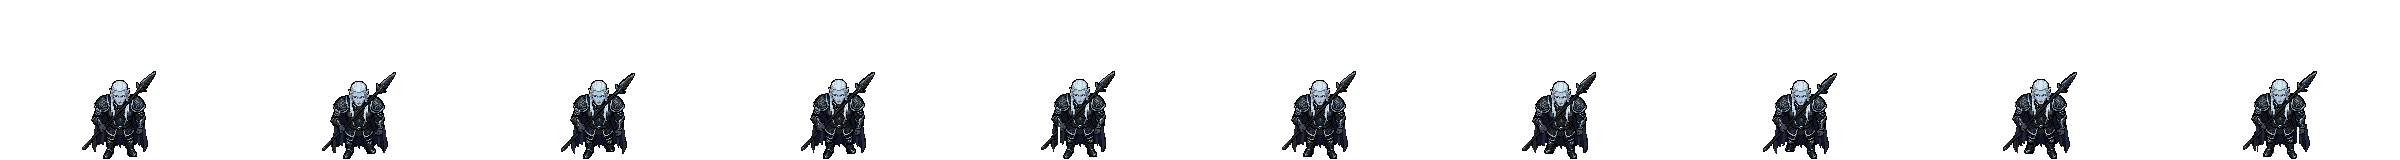
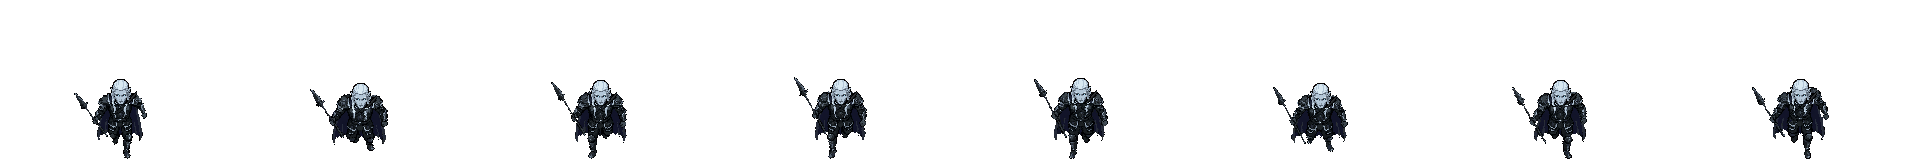
Art: Elvis's real runs in all three views, from Higgsfield (Task A3)
Danyal: "make it so they run and not just take 1 step of a pixel each". run_F, run_S
and run_B are now real runs: full strides with bent knees and travelling feet, the
free arm swinging, the spear rocking in his fist, the cape and hair streaming. 8
frames at 12 fps in every view (the side view's planted foot moves about 12 px a
frame, 145 px/s, against the ground's 160).

Guides: HK Run Full (Jog Forward's full stride, the lean cut to 15 degrees),
art/guides/E25-E27 and ref_elvis_FSB.png. Higgsfield nano_banana_2_1, two of each
request, the better one kept. Clean-up: art/elvis/make_runs.sh. The idle's own
head (and from behind its whole hair) is pasted onto every frame by the new
art/tools/headlock.py, so the face, eyes and hair never change; the frame keeps
the head on one column; F and B's passing squat is lifted to a 4 px bob.
sprites.py gains --widen, --frame-scale and --lowest; stride.py can be imported.

diff --git a/art/tools/headlock.py b/art/tools/headlock.py
@@ -1,0 +1,147 @@
+# One head for every frame: the idle's head (and hair) pasted onto each frame of a Gemini sheet, lined up where that
+# frame's own head is, so the face, the eyes and the hair never get repainted from frame to frame (Gemini repaints every
+# frame; only the limbs, the weapon and the cape should move). The frame's own head pixels round the pasted one go:
+# bright ones (hair, skin) and small dark scraps (its outline) inside the zone are deleted at the silhouette's edge and
+# filled from the body next to them inside it. What lies outside the zone (the side run's hair streaming back) is kept.
+# Usage: uv run --with pillow --with numpy --with scipy python art/tools/headlock.py <sheet> --src art/elvis/idle_S.png
+#            --box X0,Y0,X1,Y1 --out <sheet> [--src-frame 0] [--cell 240,160] [--luma 100] [--front X] [--search 16]
+#   --box: the head in the source frame (cell px, both ends in). --luma L: only source pixels at least that bright, plus
+#   their dark 1 px outline (hair down a back, without the armour round it). --front X: the zone only reaches back to
+#   source column X (side view: the hair behind the skull is the frame's own). --fringe "#221616": first remove that
+#   clean-up ring round the outlines (stride.py's defringe). --steady: shift each frame sideways so the head keeps one
+#   column (the body comes with it; the bob stays). --mend X0,Y0,X1,Y1,W: a spear crossing the source's hair along that
+#   line (W px wide): its dark pixels there take the hair colour above them first (the run carries the spear upright).
+#   --bob-max N: a frame whose head sits more than N px below the median head is lifted to N (its feet leave the floor:
+#   Gemini draws a run's passing pose as a deep squat, 12 px at 80, which reads as a hop down, not a stride).
+#   --floor ROW: every frame not lifted gets its lowest pixel back on that row (the fringe clean-up can take the boot's
+#   bottom row away).
+#   --pad N: how far round the pasted head the frame's own head pixels are cleared (3). Self-check: headlock.py --selftest
+import argparse, os, sys
+import numpy as np
+from PIL import Image
+from scipy import ndimage
+sys.path.insert(0, os.path.dirname(os.path.abspath(__file__)))
+from stride import defringe
+
+FOUR = [[0, 1, 0], [1, 1, 1], [0, 1, 0]]
+
+
+def luma(a):
+    return a[..., :3].astype(float) @ [0.3, 0.59, 0.11]
+
+
+def stamp_of(src, box, lo=None, mend=None):
+    x0, y0, x1, y1 = box
+    s = np.zeros_like(src); s[y0:y1 + 1, x0:x1 + 1] = src[y0:y1 + 1, x0:x1 + 1]
+    if mend:                                    # the spear across the hair -> the strand colour above it
+        mx0, my0, mx1, my1, mw = mend; L = luma(s); h, w = L.shape; yy, xx = np.mgrid[:h, :w]
+        d = np.array([mx1 - mx0, my1 - my0], float); n = d / np.hypot(*d)
+        line = np.abs((xx - mx0) * n[1] - (yy - my0) * n[0]) <= mw / 2
+        for y, x in sorted(zip(*np.nonzero(line & (s[..., 3] > 0) & (L < 100)))):
+            for up in range(1, 8):
+                if y - up >= 0 and luma(s[y - up, x][None])[0] >= 100:
+                    s[y, x] = s[y - up, x]; break
+    on = s[..., 3] > 0
+    if lo is not None:                          # bright pixels and the dark ring round them
+        keep = on & (luma(s) >= lo)
+        keep |= ndimage.binary_dilation(keep, FOUR) & on & (luma(s) < 60)
+        s[~keep] = 0
+    return s
+
+
+def shift(a, dx, dy):
+    out = np.zeros_like(a); h, w = a.shape[:2]
+    ys, xs = slice(max(0, dy), min(h, h + dy)), slice(max(0, dx), min(w, w + dx))
+    yd, xd = slice(max(0, -dy), min(h, h - dy)), slice(max(0, -dx), min(w, w - dx))
+    out[ys, xs] = a[yd, xd]
+    return out
+
+
+def align(f, st, search):
+    m = st[..., 3] > 0; ys, xs = np.nonzero(m); Ls = luma(st)[m]; w = np.where(Ls > 100, 2.0, 1.0)
+    Lf = luma(f); on = f[..., 3] > 0; h, W = on.shape; best = None
+    for dy in range(-search, search + 1):
+        for dx in range(-search, search + 1):
+            y, x = ys + dy, xs + dx
+            ok = (y >= 0) & (y < h) & (x >= 0) & (x < W)
+            yc, xc = np.clip(y, 0, h - 1), np.clip(x, 0, W - 1)
+            d = np.where(ok & on[yc, xc], np.abs(Lf[yc, xc] - Ls), 120.0)
+            c = float((d * w).sum())
+            if best is None or c < best[0]:
+                best = (c, dx, dy)
+    return best[1], best[2]
+
+
+def lock(f, st, dx, dy, front=None, pad=3):
+    st = shift(st, dx, dy); sm = st[..., 3] > 0; on = f[..., 3] > 0
+    zone = ndimage.binary_dilation(sm, np.ones((3, 3)), iterations=pad) & ~sm     # just round the pasted head: trims further off stay
+    if front is not None:
+        zone[:, :max(0, front + dx)] = False
+    gone = zone & on & (luma(f) >= 95)          # its own hair and skin
+    dark = zone & on & ~gone
+    lab, n = ndimage.label(dark, FOUR)
+    if n:
+        size = ndimage.sum(dark, lab, range(1, n + 1))
+        gone |= np.isin(lab, 1 + np.nonzero(size < 20)[0])     # scraps of its own outline (a fist or the spear is bigger)
+    out = f.copy()
+    edge = gone & ndimage.binary_dilation(~on, FOUR)
+    out[edge] = 0
+    hole = gone & ~edge
+    keep = (out[..., 3] > 0) & ~hole
+    if hole.any() and keep.any():
+        _, (iy, ix) = ndimage.distance_transform_edt(~keep, return_indices=True)
+        out[hole] = out[iy[hole], ix[hole]]     # inside the body: the colour next to it
+    out[sm] = st[sm]
+    return out
+
+
+def main():
+    p = argparse.ArgumentParser()
+    p.add_argument('sheet'); p.add_argument('--src', required=True); p.add_argument('--src-frame', type=int, default=0)
+    p.add_argument('--box', required=True); p.add_argument('--out', required=True); p.add_argument('--cell', default='240,160')
+    p.add_argument('--luma', type=float); p.add_argument('--front', type=int); p.add_argument('--search', type=int, default=16)
+    p.add_argument('--fringe'); p.add_argument('--steady', action='store_true'); p.add_argument('--mend')
+    p.add_argument('--pad', type=int, default=3); p.add_argument('--bob-max', type=int)
+    p.add_argument('--floor', type=int)
+    A = p.parse_args()
+    cw, ch = (int(v) for v in A.cell.split(',')); box = [int(v) for v in A.box.split(',')]
+    src = np.asarray(Image.open(A.src).convert('RGBA'))[:ch, A.src_frame * cw:(A.src_frame + 1) * cw]
+    st = stamp_of(src, box, A.luma, [float(v) for v in A.mend.split(',')] if A.mend else None)
+    a = np.asarray(Image.open(A.sheet).convert('RGBA')).copy(); n = a.shape[1] // cw; offs = []
+    for k in range(n):
+        f = a[:, k * cw:(k + 1) * cw]
+        if A.fringe:
+            f = defringe(f, A.fringe)
+        dx, dy = align(f, st, A.search); offs.append((dx, dy))
+        a[:, k * cw:(k + 1) * cw] = lock(f, st, dx, dy, A.front, A.pad)
+    if A.floor is not None:
+        for k in range(n):
+            f = a[:, k * cw:(k + 1) * cw]; low = int(np.nonzero((f[..., 3] > 0).any(1))[0].max())
+            a[:, k * cw:(k + 1) * cw] = shift(f, 0, A.floor - low)
+    if A.bob_max is not None:                   # a squat lifted off the floor: the head bobs at most N px under the median
+        mid = int(round(float(np.median([o[1] for o in offs]))))
+        for k, (_, dy) in enumerate(offs):
+            if dy > mid + A.bob_max:
+                a[:, k * cw:(k + 1) * cw] = shift(a[:, k * cw:(k + 1) * cw], 0, mid + A.bob_max - dy)
+                print('frame', k, 'lifted', dy - mid - A.bob_max, 'px')
+    if A.steady:                                # one head column: each frame moved sideways by its head's offset
+        mid = int(round(float(np.median([o[0] for o in offs]))))
+        for k, (dx, _) in enumerate(offs):
+            f = a[:, k * cw:(k + 1) * cw]
+            a[:, k * cw:(k + 1) * cw] = shift(f, mid - dx, 0)
+    Image.fromarray(a).save(A.out)
+    print('head offsets (dx, dy) per frame:', offs)
+
+
+def selftest():
+    src = np.zeros((40, 40, 4), np.uint8); src[5:15, 10:20] = (220, 230, 240, 255); src[4, 10:20] = (5, 5, 5, 255)
+    f = np.zeros_like(src); f[8:18, 13:23] = (200, 210, 220, 255); f[18:35, 10:26] = (40, 40, 50, 255)
+    st = stamp_of(src, [10, 4, 19, 14])
+    dx, dy = align(f, st, 6); assert (dx, dy) == (3, 3), (dx, dy)
+    out = lock(f, st, dx, dy)
+    assert (out[8:18, 13:23, :3] == (220, 230, 240)).all() and (out[18:35, 10:26, :3] == (40, 40, 50)).all()
+    print('selftest ok')
+
+
+if __name__ == '__main__':
+    selftest() if '--selftest' in sys.argv else main()

diff --git a/art/sprites.py b/art/sprites.py
@@ -18,6 +18,9 @@
 #       raised arm counts as body. Each run prints the body heights it got.
 #   --split shapes: a row's --cols biggest shapes are its frames, smaller bits join the nearest (for frames whose spear
 #       blade reaches over the next frame, which a column cut would slice off). Default: cut at the emptiest columns.
+#   --widen K: every frame K times as wide (a view Gemini drew slimmer than the idle). --frame-scale 0:0.93,4:1.02: one
+#       frame's size times that (Gemini drew it bigger or smaller than the rest of the strip).
+#   --lowest: --anchor body with the lowest pixel of each frame on the feet line (no spear below the feet).
 #   --touchup J: hand pixel edits (eyes) applied after the clean-up, [[frame, x, y, "#rrggbb"], ...]; colours count toward 32.
 #   Writes <out> and <out>_x4.png (4x nearest preview). Self-check: sprites.py --selftest
 import argparse, json, os, sys
@@ -93,12 +96,12 @@ def figures(path, cols, rows, split='columns'):
             yield im
 
 
-def shrink(im, h, quant='median'):
+def shrink(im, h, quant='median', widen=1.0):
     # Each output pixel takes its block's most common colour (the source cut to 96 colours first), not the average:
     # thin bright lava cracks, silver trim and outlines stay crisp instead of melting into their surroundings.
     a = np.asarray(im)
     H, W = a.shape[:2]
-    w = max(1, round(W * h / H))
+    w = max(1, round(W * h / H * widen))      # widen: Gemini drew a view slimmer than the idle (Elvis's back run)
     vis = a[..., 3] > 128
     rgb = a[..., :3].copy(); rgb[~vis] = rgb[vis][0]
     meth = Image.Quantize.FASTOCTREE if quant == 'octree' else Image.Quantize.MEDIANCUT
@@ -139,7 +142,7 @@ def body(f):
 
 
 def build(strip, cols, rows, height, out, palette=None, cell=None, touchup=(), quant='median', anchor='box', pick=None,
-          bob=None, split='columns', scale_frame=None):
+          bob=None, split='columns', scale_frame=None, widen=1.0, frame_scale=None, lowest=False):
     figs = list(figures(strip, cols, rows, split))
     assert len(figs) == cols * rows, f'{len(figs)} figures found, expected {cols * rows}'
     if pick:
@@ -152,9 +155,12 @@ def build(strip, cols, rows, height, out, palette=None, cell=None, touchup=(), q
         tall = [b - t for _, t, b in bodies]
         s = height / (tall[scale_frame] if scale_frame is not None else max(tall))
         print('body heights at this scale', [round(v * s) for v in tall])
-        frames = [shrink(f, max(1, round(f.height * s)), quant) for f in figs]
+        fs = frame_scale or {}                 # one frame Gemini drew bigger than the rest: {frame: factor}
+        frames = [shrink(f, max(1, round(f.height * s * fs.get(i, 1.0))), quant, widen) for i, f in enumerate(figs)]
         ax = [round(x * fr.width / f.width) for (x, _, _), fr, f in zip(bodies, frames, figs)]
         bot = [round(b * fr.height / f.height) for (_, _, b), fr, f in zip(bodies, frames, figs)]
+        if lowest:               # the feet are the lowest pixel (a thin running leg that the body's opening drops)
+            bot = [int(np.nonzero((np.asarray(fr)[..., 3] > 0).any(1))[0].max()) + 1 for fr in frames]
         if anchor == 'strip':    # keep the heights Gemini drew them at (a run's bob), the lowest feet on the line
             t = [round(f.info['top'] * s) for f in figs]
             low = max(ti + bi for ti, bi in zip(t, bot))
@@ -280,13 +286,18 @@ if __name__ == '__main__':
     p.add_argument('--bob', help='--anchor head: px each frame\'s head sits lower (+) or higher (-): 0,1,-1')
     p.add_argument('--scale-frame', type=int, help='--anchor body/strip/head: frame K (after --pick) sets the scale, its body --height '
                    'tall (an attack whose raised arm and spear count as body would otherwise shrink the man)')
+    p.add_argument('--widen', type=float, default=1.0, help='every frame this many times as wide (a view drawn slimmer than the idle)')
+    p.add_argument('--frame-scale', help='frame:factor,...: those frames this much bigger or smaller (a frame drawn off-size)')
+    p.add_argument('--lowest', action='store_true', help='--anchor body: each frame\'s lowest pixel on the feet line')
     A = p.parse_args()
     cell = json.load(open(A.manifest))['cell'] if A.manifest and os.path.exists(A.manifest) else None
     fix = json.load(open(A.touchup)) if A.touchup else ()
     pick = [int(v) for v in A.pick.split(',')] if A.pick else None
     bob = [int(v) for v in A.bob.split(',')] if A.bob else None
     img, cell, n = build(A.strip, A.cols, A.rows, A.height, A.out, A.palette, cell, fix, A.quant, A.anchor, pick, bob, A.split,
-                         A.scale_frame)
+                         A.scale_frame, A.widen,
+                         {int(k): float(v) for k, v in (t.split(':') for t in A.frame_scale.split(','))} if A.frame_scale else None,
+                         A.lowest)
     if A.manifest:
         manifest(A.manifest, A.key, os.path.basename(A.out), n, A.fps, A.loop, cell)
     print('frames', n, 'cell', *cell, 'sheet', *img.size)

diff --git a/art/tools/stride.py b/art/tools/stride.py
@@ -181,4 +181,5 @@ def main():
     print(R['key'], n, 'frames, feet row', feet, 'sheet', (cw * n, ch))
 
 
-main()
+if __name__ == '__main__':    # headlock.py imports defringe
+    main()

diff --git a/art/tools/README.md b/art/tools/README.md
@@ -9,6 +9,7 @@ Blender is `"/mnt/c/Program Files/Blender Foundation/Blender 5.2/blender.exe"` a
 | `guide_pack.py` | A `pose_strip.py` strip -> a compact guide for Gemini: every cell cropped to the same box (hips centred, feet on one line), scaled up, side by side on magenta. Several strips (one move's views) become rows at one scale; `strip.png:0-3` packs only those cells (a wide view as two rows); `--aspect 16:9` pads the picture; it prints how tall a cell comes out in a 1376 px wide picture. The packed guides for Gemini are in `art/guides/` (`packs.txt` lists each one's rows) |
 | `breathe.py` | A still sprite (a master, or one clean Gemini view) -> a 2-frame breathing idle: everything above the belt 1 px lower in frame 1, nothing else changes. Writes the manifest entry |
 | `stride.py` | A still stance (or one good Gemini frame) -> a run cycle with no flicker: a JSON recipe cuts parts out by rows and columns, a spear's line, brightness (hair) or colour, and moves each part per frame (legs lifted in turn, knees and boots apart, the body bobbing and swaying, the spear bouncing a frame behind, the hair and cape swinging); parts can come from another sheet (the side run's legs from Gemini's frames, `idle_S`'s head); holes a moved part leaves are filled from the body next to them. Nothing is repainted, every colour must be in `palette.png`, and every frame must keep a foot on the feet line. Recipes: `art/elvis/stride_run_F.json`, `stride_run_S.json`, `stride_run_B.json`; the keys are at the top of the file |
+| `headlock.py` | One head for every frame of a Gemini sheet: the idle's own head (and hair) pasted where each frame's head is (found by matching), the frame's own head pixels round it cleared (bright ones and outline scraps; the body next to them fills the holes), so the face, the eyes and the hair are never repainted; `--front X` keeps the side run's streaming hair behind the skull, `--luma` takes only the hair from a back view, `--mend` paints out the idle's spear across the hair, `--steady` keeps the head on one column, `--bob-max` lifts a squatting frame, `--floor` puts the feet back on the line, `--fringe` removes the clean-up ring. Recipes: `art/elvis/make_runs.sh`. `--selftest` checks it |
 | `band.py` | Cut one row of figures out of a Gemini picture that padded the strip with extra copies above and below: shapes reaching outside rows Y0..Y1 go (touching shapes are split first) |
 | `eyes.py` | Eye touch-ups for `sprites.py --touchup`: front frames get the master's own eye pixels where its head matches; `--side` finds the profile eye and draws a pupil and an ice-blue catch-light |
 | `gif.py` | Manifest keys -> a 4x GIF for `docs/progress/`, timed by fps and holds, on sand; `--row` plays several side by side |
@@ -109,6 +110,26 @@ The copy's textures are relative (`//textures/...`), so the script points them a
   like his front idle's spear. Gemini paints what the guide shows at the size it shows it: keep every standing figure
   at least about 190 px tall in a 1376 px wide picture (`guide_pack.py` prints the cell size; split a move into more
   pictures rather than shrink it).
+
+## Higgsfield (25 Oct 2026, from 08:30: Danyal "go ahead and use it til 0")
+
+- Model `nano_banana_2_1` (Gemini's image model), `resolution` 1k, 1.5 credits a picture, 16:9 comes back 1376x768.
+  Upload with `media_upload` (presigned URL), `curl -X PUT -H "Content-Type: image/png" --data-binary @file '<url>'`,
+  `media_confirm`; pass the ids as `medias` with role `image_references`, the guide first, the reference second. Ask
+  for two of each request in one `generate_image_batch` (2 x 1.5 credits) and keep the better: one of the pair usually
+  adds a second spear, a copy of the master or a flipping lock of hair. `jobs_wait`, then `curl` the result URL into
+  `art/<c>/raw/`. About 1 in 10 jobs fails (no charge seen); resubmit it.
+- The same "repaint image 1" prompt as Gemini's works. A reference picture with all three idles side by side
+  (`art/guides/ref_elvis_FSB.png`, "draw him like the figure on the right of image 2") gives the back view his long hair.
+- **Real runs (Danyal: "make it so they run and not just take 1 step of a pixel each"):** the full stride of Jog
+  Forward with the lean cut to 15 degrees (`HK Run Full`) painted into real runs in every view: strides, the cape and
+  hair streaming. What still went wrong, and the fix: Gemini draws a run's passing pose as a deep squat from the front
+  and behind (12 px at 80, even with the guide's legs eased) -> `headlock.py --bob-max 4` lifts it into a flight frame;
+  the back view comes out slimmer, longer-legged and smaller-headed than `idle_B` every time (4 tries) ->
+  `sprites.py --widen 1.36 --height 66`; the first figure can come out bigger than the rest -> `--frame-scale 0:0.93`;
+  the eyes are lost and every face differs -> `headlock.py` pastes the idle's head; a free fist swung forward reads as a
+  raised fist beside the head from behind (the camera looks over his shoulder at it), even when the prompt says to keep
+  it low.
 
 ## Limits seen
 

diff --git a/art/elvis/notes.md b/art/elvis/notes.md
@@ -56,7 +56,8 @@ magenta canvas, uploaded with `master_x4.png` (on magenta) as image 2. Prompts: 
 | Sheet | Raw | Made with |
 | --- | --- | --- |
 | `idle_F` | (the master) | `breathe.py art/elvis/master.png --out art/elvis/idle_F.png --manifest art/elvis/manifest.json --key idle_F`; holds 0.3/0.2 s. `raw/idle_F_g1.jpeg` (4 frames from Gemini) was not used: tall, thin, small-headed copies |
-| `run_F` | (the master, as `idle_F` frame 0) | `stride.py art/elvis/stride_run_F.json --manifest art/elvis/manifest.json` (since the 25 Oct art review): 10 frames at 13 fps. The body bobs 0-2 px and sways 1 px toward the planted foot; the spear (blade and butt) bounces a frame behind the body; each leg is a knee (rows 144-149, drawn over the hem, 1 px lower when it comes forward) and a boot (row 150 down, lifted up to 7 px behind the knee and 2 px in toward the middle); the cape's sides swing 1 px a frame behind |
+| `run_F`, `run_S`, `run_B` (real runs, 25 Oct, from 08:40) | `raw/run_F_h3.png`, `raw/run_S_h1.png`, `raw/run_B_h6.png` (Higgsfield `nano_banana_2_1`, 1k, 16:9, 2 rows of 4) | `art/elvis/make_runs.sh` (all the commands). Guides: `HK Run Full` in `art/tools/hand_keys.json` (Jog Forward's full stride, the lean cut to about 15 degrees, the free arm swinging behind and ahead, the spear rocking with the fist; the passing poses' legs eased 50% for F and B), packed as `art/guides/E25_elvis_run_S.png`, `E26_elvis_run_F.png`, `E27_elvis_run_B.png`; image 2 `art/guides/ref_elvis_FSB.png` (the master, `idle_S` and `idle_B` side by side at 4x). Clean-up: `sprites.py` (palette lock; F: frame 0 drawn 7% bigger, `--frame-scale 0:0.93`; B: drawn slimmer and longer-legged than `idle_B`, `--height 66 --widen 1.36 --lowest`), then `art/tools/headlock.py`: the idle's own head (side: head and face, the hair behind the skull stays Gemini's streaming hair; back: the whole hair to the waist, the idle's spear across it mended) pasted where each frame's head is, the frame moved sideways so the head keeps one column, the `#221616` fringe removed, the feet back on row 158; F and B's passing frames, which Gemini draws as a 12 px squat, lifted to a 4 px bob (their feet leave the floor 6-8 px, a flight frame). 8 frames at 12 fps in all three views: the side view's planted foot travels about 61 px over 5 frames, 12 px a frame = 145 px/s at 12 fps, against the ground's 160 (5 m/s x 32 px) |
+| (old) `run_F` | (the master, as `idle_F` frame 0) | **Replaced 25 Oct by the real runs above** (Danyal: "make it so they run and not just take 1 step of a pixel each"); `stride_run_*.json` are no longer used. Was: `stride.py art/elvis/stride_run_F.json --manifest art/elvis/manifest.json` (since the 25 Oct art review): 10 frames at 13 fps. The body bobs 0-2 px and sways 1 px toward the planted foot; the spear (blade and butt) bounces a frame behind the body; each leg is a knee (rows 144-149, drawn over the hem, 1 px lower when it comes forward) and a boot (row 150 down, lifted up to 7 px behind the knee and 2 px in toward the middle); the cape's sides swing 1 px a frame behind |
 | `run_S` | `raw/run_S_g2.jpeg` (2 rows of 5) -> `raw/run_S_g2_frames.png` (its first clean-up, kept as the legs' source) | `stride.py art/elvis/stride_run_S.json`: the upper body is Gemini frame 5 with its head erased and `idle_S`'s head, long hair and front lock pasted on (5 px ahead), so the head never changes; the hair streams 2-3 px back at its tips; the spear and front hands bounce a frame behind; the legs and cape hem come from one Gemini frame each, in step order (contact 5, down 1, passing 6, push 8, reach 4, then 7, 2, 6, 3, 9), lined up on frame 5 and dropped onto the feet row; strokes under 3 px (a stray spear butt, dotted outlines) dropped; the `#221616` fringe the first clean-up left round every outline deleted or made outline black. Was: `sprites.py raw/run_S_g2.jpeg --cols 5 --rows 2 --split shapes --anchor head --fps 13 --touchup art/elvis/touchup_run_S.json` (no longer used) |
 | `run_B` | (`idle_B` frame 0) | `stride.py art/elvis/stride_run_B.json`: as `run_F` (the same bob, sway and phase, mirrored since his left is on the left from behind); the spear blade and the shaft across his back bounce a frame behind; the hair's tips swing 1 px; the boots lift up to 6 px and come in front of the cape while kicked back; the cape's middle swings 1 px and its hem 2 px, a frame behind |
 

diff --git a/art/tools/clips.md b/art/tools/clips.md
@@ -64,7 +64,7 @@ A hand-keyed clip is named `"HK <name>"` and is a list of key poses, one every `
 | Animation | Views | Source | Frames | Prop and options | Status |
 | --- | --- | --- | --- | --- | --- |
 | idle | F B S | Idle (0-75) | `6` (loop) | spear, `--carry 0.1,0.15,1` (upright, butt near his foot) | Candidate |
-| run | F B S | **HK Run**, on Jog Forward 0-25 (8 poses): the spine and legs eased halfway to Idle, the arms keyed with the elbows bent, the left arm swinging from straight down to ahead of him, the right fist carrying the spear steady. The plain clip read as a one-legged hop in F: the far leg hid behind his body in 6 of 8 cells, and the back-swung arm showed above his head. | `0,4,8,12,16,20,24,28` (one per pose, a loop) | spear, `--carry 0.25,0.35,1` | **Checked** (F, S, B; both legs show in every F cell) |
+| run | F B S | **HK Run**, on Jog Forward 0-25 (8 poses): the spine and legs eased halfway to Idle, the arms keyed with the elbows bent, the left arm swinging from straight down to ahead of him, the right fist carrying the spear steady. The plain clip read as a one-legged hop in F: the far leg hid behind his body in 6 of 8 cells, and the back-swung arm showed above his head. | `0,4,8,12,16,20,24,28` (one per pose, a loop) | spear, `--carry 0.25,0.35,1` | **Checked** (F, S, B; both legs show in every F cell). **Replaced 25 Oct by `HK Run Full`** (the full stride, the lean cut to 15 degrees, the free arm swinging behind and ahead; no `--carry`, the spear rocks with the fist): `E25`-`E27`, made into `run_F/S/B` |
 | sprint | F B S | Sprint (0-20) | `6` (loop) | spear, `--carry 0.2,-1,0.15` (trailing behind) | **Guide** (`E21`, `E22`) |
 | roll | F B S | **HK Roll**: Roll frames 0, 4, 14, 16, 18, 20, 22, 25, each set down on the ground (`plant`; the in-place clip floats about 0.9 m through the tuck): crouch, push off, hands down, tucked over the shoulder, over, over, sitting up, rising. Frames 26 on are standing up. | `0,4,8,12,16,20,24,28` | `--prop none`: in the fist the spear stabs through him as he turns over. Tell Gemini he keeps the spear close along his right side. | **Checked** (F, S, B); **Guide** (`E01`, `E02`) |
 | light1 | F B S | Sword Light D (0-50) | `46,40,36,34,32,26,36,44`: its recovery backwards, then forwards = a step-in thrust from guard | spear, `--left-grip -0.5`. **F: `HK Light1 F`** (the same poses, the spear aimed like the front idle's: guard diagonal, tip up to his left; the thrust ahead and to his left), because aimed at the camera the spear is a stub or runs below his feet | **Checked** (light1_S); F **Guide** (`E03`) |
@@ -77,7 +77,7 @@ A hand-keyed clip is named `"HK <name>"` and is a list of key poses, one every `
 | hurt | F B S | Hit Chest (0-10) | `0-10/4` | spear in the fist | **Guide** (`E17`) |
 | death | F B S | Death 01 (0-72) | `0-72/8`, the last held | `--prop none` (he drops it; Gemini paints it falling) | **Guide** (`E18`, `E19`) |
 | drink | F B S | Drink (0-90) | `10-80/6` | `--prop none` (Gemini paints the flask; the spear isn't in the guide) | **Guide** (`E20`) |
-| walk (cutscene) | F B S | Walk Forward (0-40) | `8` (loop) | spear, `--carry 0.1,0.15,1` | **Guide** (S: `E23`; F and B are rendered too, but `stride.py` from his idles needs no Gemini) |
+| walk (cutscene) | F B S | Walk Forward (0-40) | `8` (loop) | spear, `--carry 0.1,0.15,1` | **Guide** (S: `E23`; F and B are rendered too, but `stride.py` from his idles needs no Gemini). **Replaced 25 Oct by `HK Walk Full`** (Walk Forward 0-35 every 5 frames, its own stride and free arm; the spear carried as in `HK Run Full`, since `--carry` upright drove its butt into the ground and the tool tipped it flat): `E28`-`E30`, all three views from Higgsfield |
 | split the crown (cutscene) | F | Mining (0-27; 0 = top of the swing) | `20,24,0,3,6,9,9,15`: lift overhead, drive down, hold, pull free | spear, `--carry 0,0.2,-1` (point down), `--left-grip 0.4` | **Guide** (`E24`) |
 
 ### Armoured Vulcan (greatsword, two hands = `--left-grip -0.17`; `--cell 384`)
